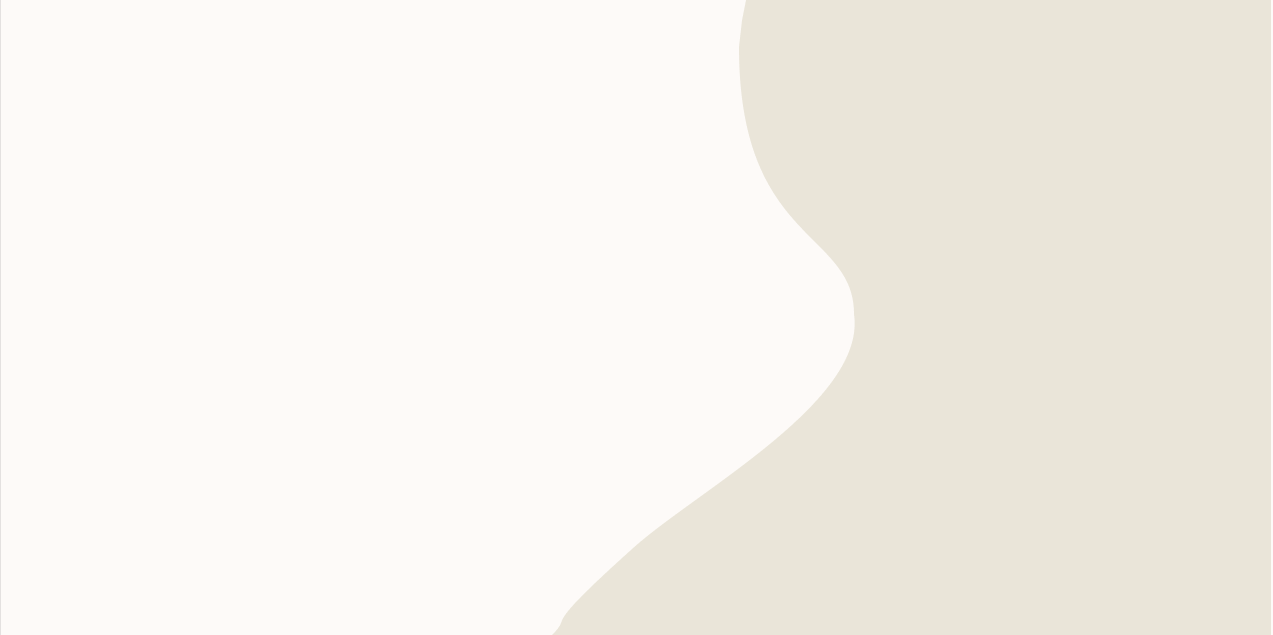
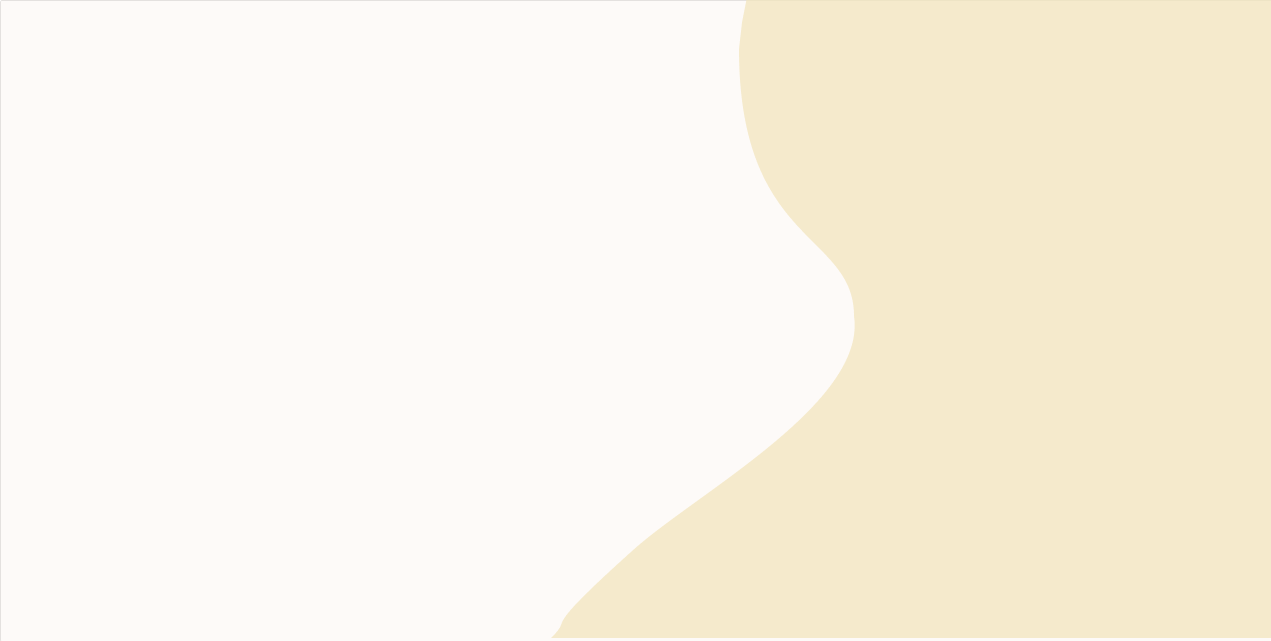
Mudancabackground

Changed region(s): [[0.4296, 0.9874, 1.0, 1.0]]

diff --git a/CÓDIGO TCC/my-app/index.html b/CÓDIGO TCC/my-app/index.html
@@ -1,38 +1,43 @@
 <!doctype html>
-<html lang="en">
-  <head>
-    <meta charset="UTF-8" />
-    <link rel="icon" type="image/svg+xml" href="/vite.svg" />
-    <meta name="viewport" content="width=device-width, initial-scale=1.0" />
-    <link rel="stylesheet" href="src/App.css">
-    <link rel="stylesheet" href="reset.css">
-    <title> Padaria Camargo </title>
-  </head>
-  <body>
-    <nav>
-      <div id="nav_bar">
-        <img src="src/assets/img/pngegg.png" alt="Chapéudepalha">
-        <p> <a href="#"> HOME </a> </p>
-        <p> <a href="#"> LANCHES </a> </p>
-        <p> <a href="#"> BEBIDAS </a> </p>
-        <p> <a href="#"> SOBRE NÓS </a> </p>
-      </div>
-      </p>
-    </nav>
-    <h1> SEJA BEM VINDO </h1>
-    <p> Somos uma microempresa pedagógica da Etec Professor Camargo Aranha, formada por alunos dos cursos de Gastronomia e Desenvolvimento de Sistemas. </p>
-    <p>
-      Produzimos e vendemos delicías feitas a partir de alimentos doados e reaproveitados de eventos escolares - Tudo com criatividade, sustentabilidade e muito aprendizado!
+<html lang="pt-br">
+
+<head>
+  <meta charset="UTF-8" />
+  <link rel="icon" type="image/svg+xml" href="/vite.svg" />
+  <meta name="viewport" content="width=device-width, initial-scale=1.0" />
+  <link rel="stylesheet" href="src/App.css">
+  <link rel="stylesheet" href="reset.css">
+  <link href="https://fonts.googleapis.com/css2?family=Poppins:ital,wght@0,100;0,200;0,300;0,400;0,500;0,600;0,700;0,800;0,900;1,100;1,200;1,300;1,400;1,500;1,600;1,700;1,800;1,900&display=swap" rel="stylesheet">
+  <title> Padaria Camargo </title>
+</head>
+
+<body>
+  <nav>
+    <div id="nav_bar">
+      <img src="src/assets/img/pngegg.png" alt="Chapéudepalha">
+      <p> <a href="#"> HOME </a> </p>
+      <p> <a href="#"> LANCHES </a> </p>
+      <p> <a href="#"> BEBIDAS </a> </p>
+      <p> <a href="#"> SOBRE NÓS </a> </p>
+    </div>
     </p>
-    
-    <button>
-      <p> LOGIN </p>
-    </button>
+  </nav>
+  <h1> SEJA BEM VINDO </h1>
+  <p> Somos uma microempresa pedagógica da Etec Professor Camargo Aranha, formada por alunos dos cursos de Gastronomia e
+    Desenvolvimento de Sistemas. </p>
+  <p>
+    Produzimos e vendemos delicías feitas a partir de alimentos doados e reaproveitados de eventos escolares - Tudo com
+    criatividade, sustentabilidade e muito aprendizado!
+  </p>
 
-    <button>
-      <p> CADASTRE-SE </p>
-    </button>
+  <button>
+    <p> LOGIN </p>
+  </button>
 
-  </body>
+  <button>
+    <p> CADASTRE-SE </p>
+  </button>
+
+</body>
 
 </html>

diff --git a/CÓDIGO TCC/my-app/src/App.css b/CÓDIGO TCC/my-app/src/App.css
@@ -1,20 +1,39 @@
+@import url('https://fonts.googleapis.com/css2?family=Poppins:ital,wght@0,100;0,200;0,300;0,400;0,500;0,600;0,700;0,800;0,900;1,100;1,200;1,300;1,400;1,500;1,600;1,700;1,800;1,900&display=swap');
+
+nav {
+  font-family: "Poppins", sans-serif;
+  font-weight: 100;
+  font-style: normal;
+}
+
+
 #nav_bar {
   align-items: center;
   justify-content: center;
   display: flex;
-  margin: 35px 690px 35px 10px;
+  margin: 15px 690px 35px 10px;
 }
 body {
-  background-image: url("assets/img/FUNDO PÁGINA.png");
-  background-repeat: no-repeat, repeat;
-  background-color: #cccccc;
+    display: table;
+    width: 100%;
+    height: 100vh;
+    padding: 100px 0;
+    background: url('assets/img/FUNDO\ PÁGINA.png') no-repeat bottom center scroll;
+    background-position: 30% 45%;
+    background-size: cover;
 }
 
 #nav_bar > p {
-  padding: 0px 15px;
+  padding: 0px 40px;
 }
 
-img {
-  width: 35px;
+#nav_bar > img {
+  padding: 0px 50px 10px 10px;
+  width: 75px;
 }
 
+ #nav_bar a {
+  color: black;
+  text-decoration: none;
+
+}
